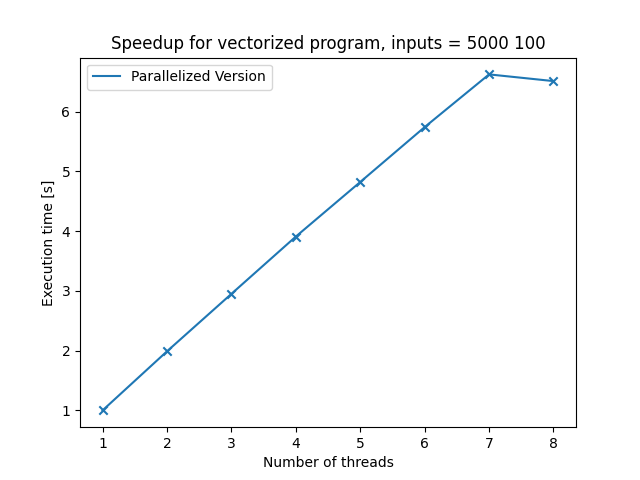
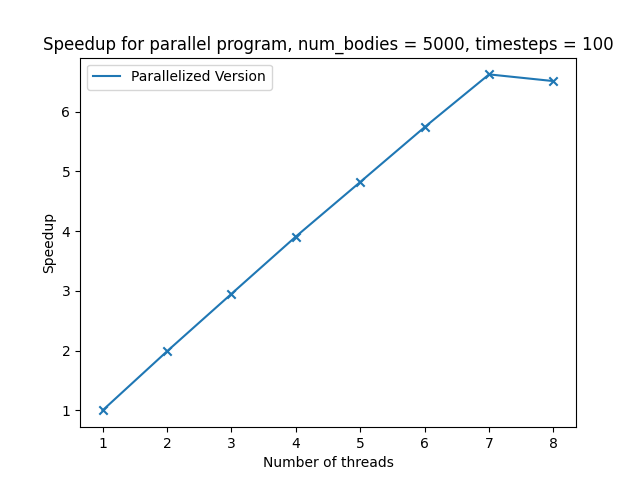
Added markdown

Changed region(s): [[0.0625, 0.0625, 0.875, 0.125], [0.0625, 0.375, 0.0938, 0.6562], [0.9062, 0.0625, 0.9688, 0.125]]

diff --git a/Assignment_12/plot.py b/Assignment_12/plot.py
@@ -5,5 +5,5 @@ spec.loader.exec_module(plot)
 
 OUT_FILE = 'output_task1_week12.dat'
 
-plot.plot_runtime_per_thread(OUT_FILE, "Speedup for vectorized program, inputs = 5000 100", "speedup_task1", "Reference")
+plot.plot_runtime_per_thread(OUT_FILE, "Speedup for parallel program, num_bodies = 5000, timesteps = 100", "speedup_task1", "Reference")
 plot.print_table(OUT_FILE)

diff --git a/plots_v2.py b/plots_v2.py
@@ -91,7 +91,7 @@ def _produce_line_plot(title_list, curve_list, plot_title, output_file_name):
         plt.plot(thread_vec, curve)
         plt.scatter(thread_vec, curve, marker='x')
     plt.xlabel("Number of threads")
-    plt.ylabel("Execution time [s]")
+    plt.ylabel("Speedup")
     plt.legend(title_list)
     plt.title(plot_title)
     _create_folder_for_graphics()

diff --git a/Assignment_12/3d_scatter_plot.py b/Assignment_12/3d_scatter_plot.py
@@ -35,7 +35,7 @@ def plot():
         title.set_text('iteration={}'.format(j))
 
     anim = FuncAnimation(f, anim, interval=50)
-    #anim.save("test.gif")
+    anim.save("test.gif")
     pyplot.show()
 
 plot()

diff --git a/Assignment_12/assignment_12.md b/Assignment_12/assignment_12.md
@@ -1,0 +1,185 @@
+---
+author: Tobias Hosp, Marcel Alexander Huber and Thomas Klotz
+title: Assignment 9
+---
+
+# Assignment 12
+
+### Introduction
+
+The task was to implement a 3-D n-body simulation. Although there are quite fast and clever algorithms for this problem like the [Barnes-Hut-Algorithm](https://de.wikipedia.org/wiki/Barnes-Hut-Algorithmus), we decided to implement the naive version, which has a runtime complexity of $\mathcal{O}(n^2)$.
+In the naive approach, every body compares its position directly to every other body, calculates the force between them and then updates its velocity and position accordingly.
+
+### Implementation
+
+Each particle gets represented by a struct containing information about the mass, velocity and position of the body. Note that position and velocity consist of three components (one for every dimension).
+
+```c
+typedef struct body_struct {
+    float position[3];
+    float velocity[3];
+    int mass;
+} body;
+```
+
+Following functions which are necessary for the simulation are provided in `n_body.c`:
+
+#### Initialization
+
+Every body gets initialized with a random mass, a velocity of 0 and a random position in the predefined space.
+
+```c
+void initialize_bodies(body* bodies, int size){
+    srand(time(NULL));
+    unsigned int seed = rand();
+    for (int i = 0; i<size; ++i){
+        for (int j = 0; j<3; ++j){
+            bodies[i].position[j] = rand_r(&seed) % MAX_DIM;
+            bodies[i].velocity[j] = 0;
+        }
+        bodies[i].mass = ((rand_r(&seed) % MAX_MASS) + 500) * 1000;
+    }
+}
+```
+
+#### Updating velocity
+
+The velocities get updated as described in [the introduction section](#Introduction). Note that the force on an axis gets set to 0 as soon as bodies get too close, since we wanted to avoid absurdly high accelarations which can occur since we did not implement any collision model. 
+
+```c
+void update_velocities_naive(body* bodies, int size){
+    for (int i = 0; i<size; ++i){
+        for (int j = 0; j<size; ++j){
+            if(i != j){
+                float numerator = G * (bodies[i].mass + bodies[j].mass);
+                for (int k = 0; k<3; ++k){
+                    float radius = calculate_radius_squared(bodies[i].position[k], bodies[j].position[k]);
+                    float force;
+                    if (fabs(radius) < 0.5){
+                        force = 0;
+                    } else{
+                        force = numerator / radius;
+                    }
+                    bodies[i].velocity[k] += force/bodies[i].mass;
+                }
+            }
+        }
+    }
+}
+```
+
+#### Updating position
+
+The positions also get updated as described in [the introduction section](#Introduction). Note. that the velocity of a body gets set to 0 as soon as the simulation boundaries are reached.
+
+```C
+void update_positions(body* bodies, int size){
+    for (int i = 0; i<size; ++i){
+        for (int j = 0; j<3; ++j){
+            float update = bodies[i].position[j] + bodies[i].velocity[j];
+            if (update > MAX_DIM){
+                bodies[i].velocity[j] = 0;
+            }else if(update<0){
+                bodies[i].velocity[j] = 0;
+            } else{
+                bodies[i].position[j] = update;
+            }  
+        }
+    }
+}
+```
+
+#### Saving the data to a file
+
+In order to visualize the simulation it is necessary to write the position of each particle to a file. To achive this, the following function is provided:
+
+```c
+void print_bodies_to_file(body* bodies, int size){
+    FILE* file = fopen (OUT_FILE, "a");
+    for (int j = 0; j<3; ++j){
+        for (int i = 0; i<size; ++i){
+            fprintf(file, "%f ", bodies[i].position[j]);
+        }
+        fprintf(file, "\n");
+    }
+    fprintf(file, "\n");
+    fclose(file);
+}
+```
+
+
+
+#### Putting it all together
+
+The main simulation loop is defined in the main function in `simulation.c`. Note that nothing is written to the file if the program is compiled with the `TIME_MES` flag.
+
+```c
+for (int i = 0; i<steps; ++i){
+        update_velocities_naive(bodies, size);
+        update_positions(bodies, size); 
+        #ifndef TIME_MES
+        print_bodies_to_file(bodies, size);
+        #endif
+    }
+```
+
+### Visualization of the simulation
+
+We visualized the simulation with a custom python script using matplotlib. In order to run the script, one need to have matplotlib and numpy installed.
+Here is an example of the generated plot:
+
+![visualisation](visualisation.gif)
+
+#### Some observations
+
+- Some points are very fast. This is due to some points are initialized with a very low mass and therefore get accellerated quite violently. 
+- The simulation probably needs some fine tuning in terms of parameters (e.g. the masses of particles and the gravitaional constant).
+- A collision model would be very benefitial because we could avoid using workarounds (described in [here](#Updating-velocity)) which currently lead to odd behaviour of the particles.  
+
+### Parallel version
+
+In order to parallelize the code, we added two simple statements in the most computationally intensive functions:
+
+```c
+void update_positions(body* bodies, int size){
+    #pragma omp parallel for collapse(2)
+    for (int i = 0; i<size; ++i){
+        for (int j = 0; j<3; ++j){
+          ...
+        }
+    }
+}
+```
+
+and 
+
+```c
+void update_velocities_naive(body* bodies, int size){
+    #pragma omp parallel for collapse(2)
+    for (int i = 0; i<size; ++i){
+        for (int j = 0; j<size; ++j){
+        	...
+        }
+    }
+}
+```
+
+#### Benchmark
+
+The program has been tested with `n_bodies` = 5000 and `timesteps`= 100.
+
+![speedup_task1](plots/speedup_task1.png)
+
+| Number of threads | Parallelized Version | Reference |
+| ----------------- | -------------------- | --------- |
+| 1                 | 74.01                | 74.0      |
+| 2                 | 37.25                | 74.06     |
+| 3                 | 25.08                | 73.98     |
+| 4                 | 18.93                | 73.99     |
+| 5                 | 15.34                | 73.97     |
+| 6                 | 12.89                | 74.0      |
+| 7                 | 11.18                | 74.05     |
+| 8                 | 11.36                | 73.97     |
+
+  We are quite happy with this (nearly linear) speedup and especially with the effort to speedup ratio. 
+
